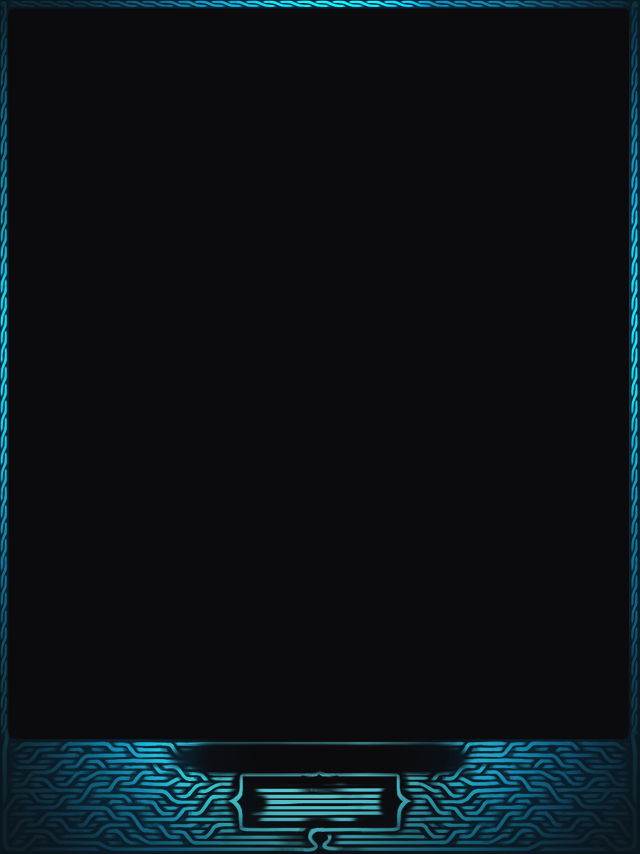
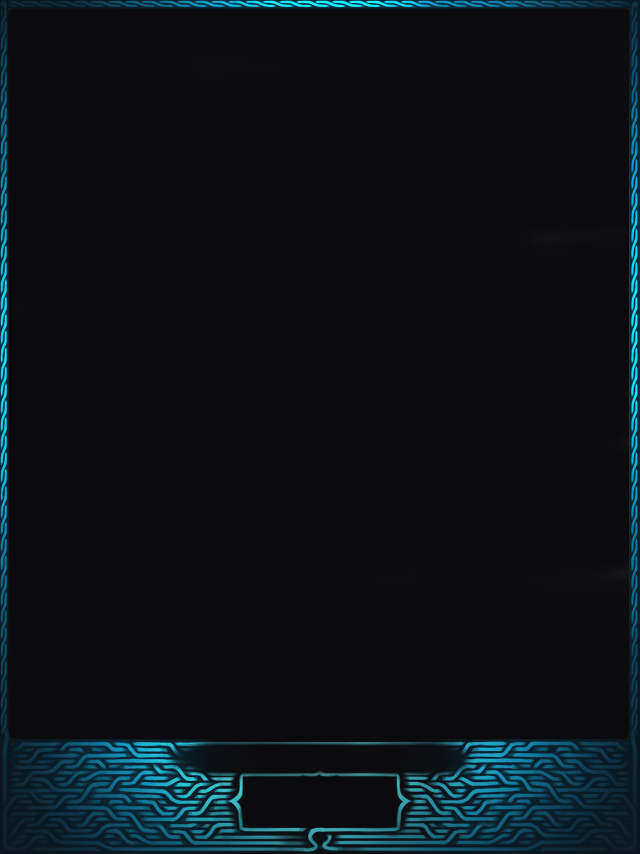
Fixes: Cambia la imagen den fondo de la lista de seleccionar de personajes. Agrega la label con el texto y centra la de cantidad de unidades.

Changed region(s): [[0.375, 0.9133, 0.5938, 0.9742]]

diff --git a/CrystalClash/CrystalClash/src/com/crystalclash/renders/helpers/ui/UnitThumbsList.java b/CrystalClash/CrystalClash/src/com/crystalclash/renders/helpers/ui/UnitThumbsList.java
@@ -20,10 +20,12 @@ public class UnitThumbsList extends Group {
 	private Image imgTableBg;
 	private ScrollPane scrollPane;
 	private Label lblUnitsCount;
+	private Label lblMessage;
 	private UnitThumb selectedThumb;
 
 	public UnitThumbsList(final UnitListSelectListener unitThumbListener, final UnitItemSplashListener unitSplashListener) {
 		lblUnitsCount = new Label("", new LabelStyle(ResourceHelper.getBigFont(), Color.WHITE));
+		lblMessage = new Label("Units placed", new LabelStyle(ResourceHelper.getBigFont(), Color.WHITE));
 
 		imgTableBg = new Image(ResourceHelper.getTexture("in_game/first_turn/list_background"));
 		addActor(imgTableBg);
@@ -31,7 +33,8 @@ public class UnitThumbsList extends Group {
 		table = new Table();
 		scrollPane = new ScrollPane(table);
 		scrollPane.setPosition(10, 155);
-		lblUnitsCount.setPosition(250, 50);
+		lblMessage.setPosition(230, 85);
+		lblUnitsCount.setPosition(275, 50);
 		scrollPane.setScrollingDisabled(true, false);
 		scrollPane.setOverscroll(false, true);
 		scrollPane.setSmoothScrolling(true);
@@ -84,6 +87,7 @@ public class UnitThumbsList extends Group {
 		}
 
 		addActor(lblUnitsCount);
+		addActor(lblMessage);
 	}
 
 	public void setUnitCountText(String str) {
